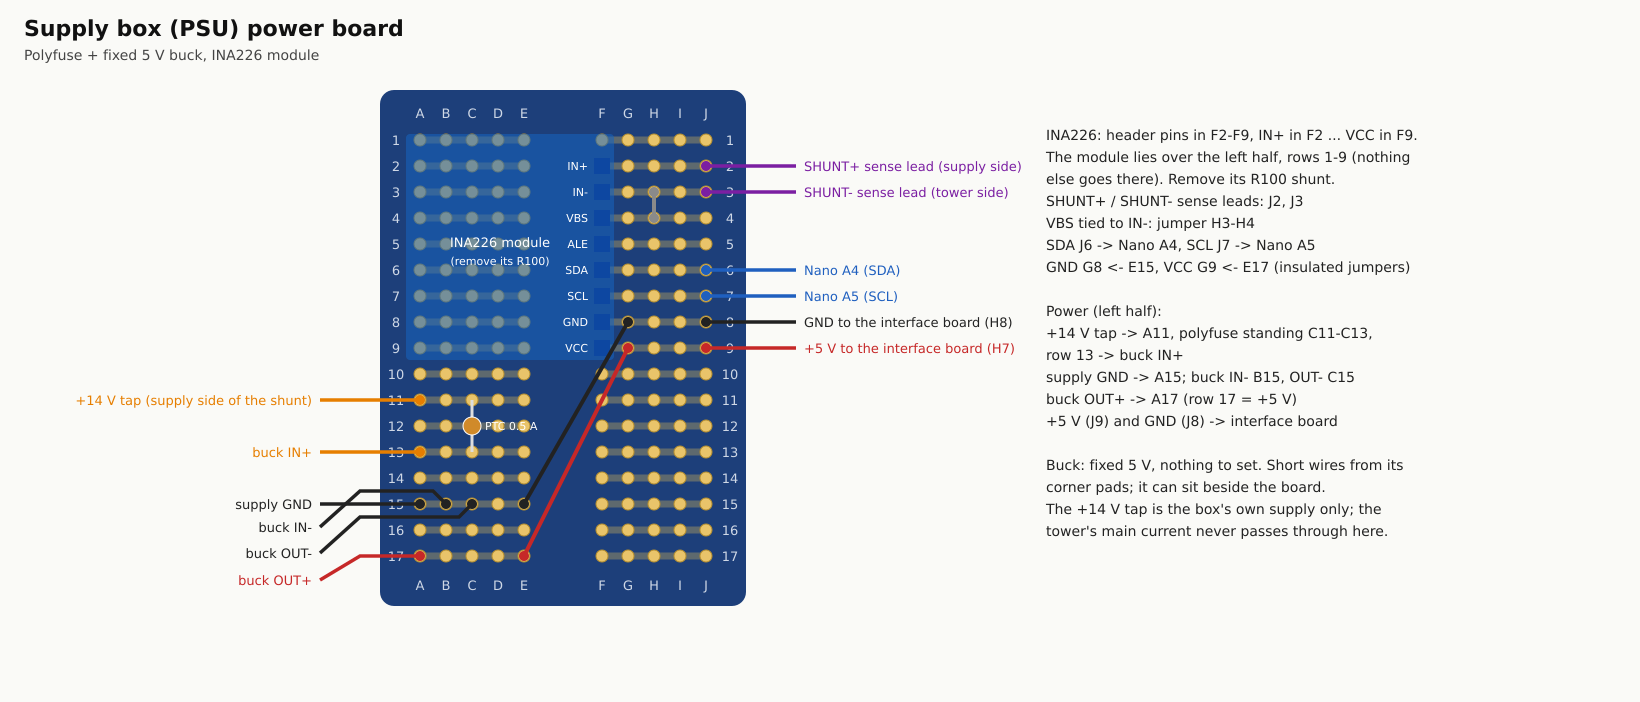
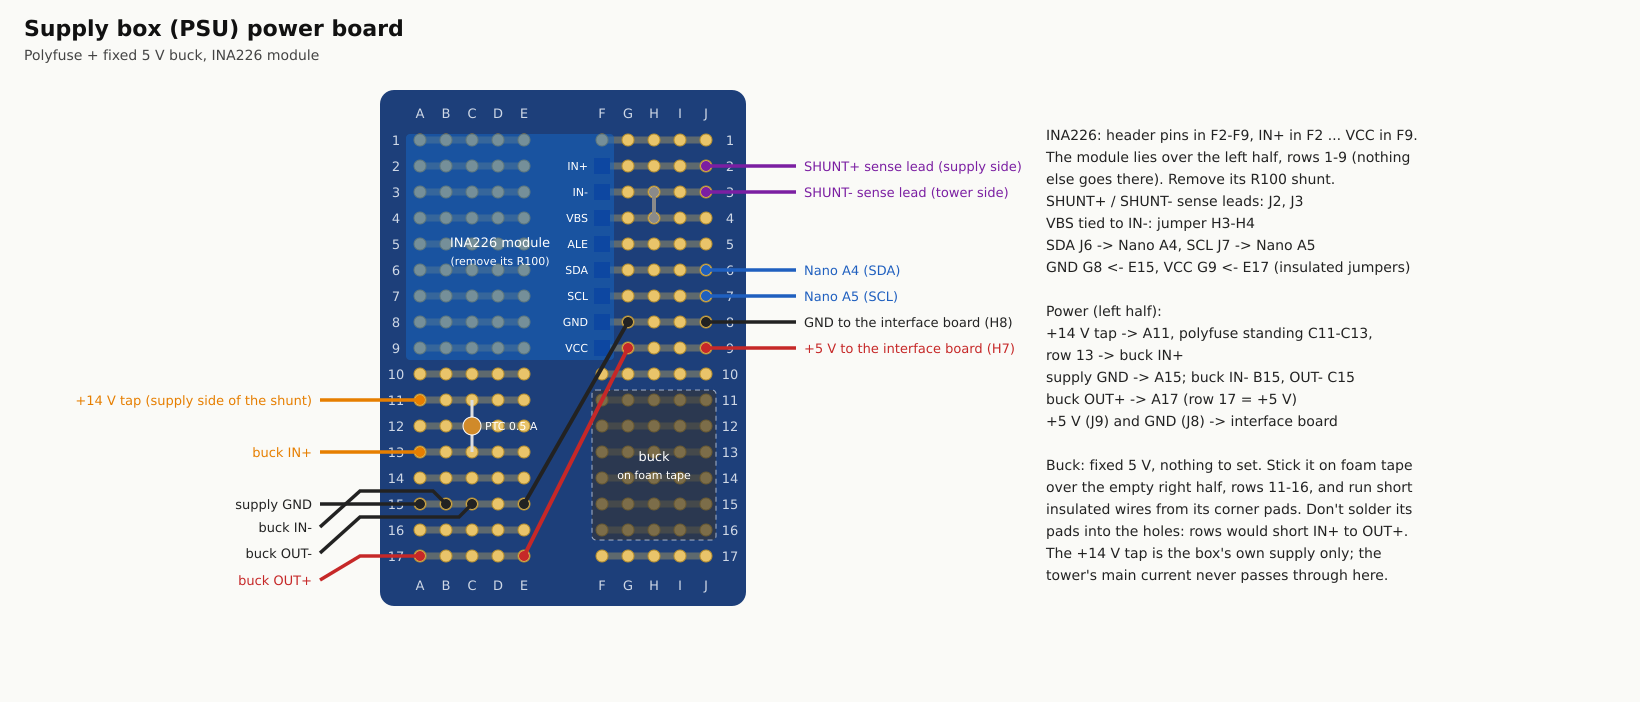
docs: prototype buck mounts on foam tape over the power board's right half
Claude-Session: https://claude.ai/code/session_01UT9WmjDP4GTw55uUrUFHCd

Changed region(s): [[0.622, 0.6581, 0.8707, 0.8376], [0.3421, 0.5385, 0.4354, 0.7778]]

diff --git a/docs/prototype/make_proto.py b/docs/prototype/make_proto.py
@@ -276,6 +276,12 @@ def psu_power_board():
     # power, left half rows 11-17
     d.wire("A11", "+14 V tap (supply side of the shunt)", COL["14v"], "l")
     d.cap("C11", "C13", "PTC 0.5 A")
+    x0, y0 = d.xy("F11")
+    x1, y1 = d.xy("J16")
+    d.el.append(f'<rect x="{x0 - 10}" y="{y0 - 10}" width="{x1 - x0 + 20}" height="{y1 - y0 + 20}" rx="4" '
+                'fill="#333" opacity="0.6" stroke="#fff" stroke-dasharray="5,4"/>')
+    d.el.append(f'<text x="{(x0 + x1) / 2}" y="{(y0 + y1) / 2 - 4}" class="sm" fill="#fff" text-anchor="middle">buck</text>')
+    d.el.append(f'<text x="{(x0 + x1) / 2}" y="{(y0 + y1) / 2 + 14}" class="tiny" fill="#fff" text-anchor="middle">on foam tape</text>')
     d.wire("A13", "buck IN+", COL["14v"], "l")
     d.wire("A15", "supply GND", COL["gnd"], "l")
     d.wire("B15", "buck IN-", COL["gnd"], "l", lane=-0.5)
@@ -301,8 +307,10 @@ def psu_power_board():
             "  buck OUT+ -> A17 (row 17 = +5 V)",
             "  +5 V (J9) and GND (J8) -> interface board",
             "",
-            "Buck: fixed 5 V, nothing to set. Short wires from its",
-            "corner pads; it can sit beside the board.",
+            "Buck: fixed 5 V, nothing to set. Stick it on foam tape",
+            "over the empty right half, rows 11-16, and run short",
+            "insulated wires from its corner pads. Don't solder its",
+            "pads into the holes: rows would short IN+ to OUT+.",
             "The +14 V tap is the box's own supply only; the",
             "tower's main current never passes through here."])
     return d

diff --git a/docs/prototype/README.md b/docs/prototype/README.md
@@ -62,7 +62,7 @@ The shack E220 board as built: E220 pins in E10–E16 (M0 in E10 … GND in E16;
 - +14 V tap (supply side of the shunt) → power board A11
 - Supply GND → A15
 - Shunt sense leads → J2 (SHUNT+, supply side) and J3 (SHUNT−, tower side)
-- Buck: IN+ A13, IN− B15, OUT− C15, OUT+ A17
+- Buck (on foam tape over the power board's right half, rows 11–16): IN+ A13, IN− B15, OUT− C15, OUT+ A17
 - DS18B20: yellow F6, red J7, black I8 on the interface board
 
 ## Parts
@@ -75,7 +75,7 @@ The shack E220 board as built: E220 pins in E10–E16 (M0 in E10 … GND in E16;
 | 2 (1 per E220 board) | 100 nF ceramic | B15 to B16 |
 | 1 | 4.7 kΩ | Standing, I6–I7 (PSU interface) |
 | 1 | Polyfuse, 0.5 A hold | Standing, C11–C13 (PSU power) |
-| 1 | Fixed 5 V buck module | Beside the power board, short wires to its corner pads |
+| 1 | Fixed 5 V buck module | On foam tape over the empty right half of the power board (rows 11–16), short insulated wires from its corner pads to A13, B15, C15, A17. Don't solder its pads into the holes: the row strips would short IN+ to OUT+ |
 | 1 | INA226 module (R100 removed) | Header in F2–F9 of the power board |
 | 1 | DS18B20 probe | PSU interface board |
 
